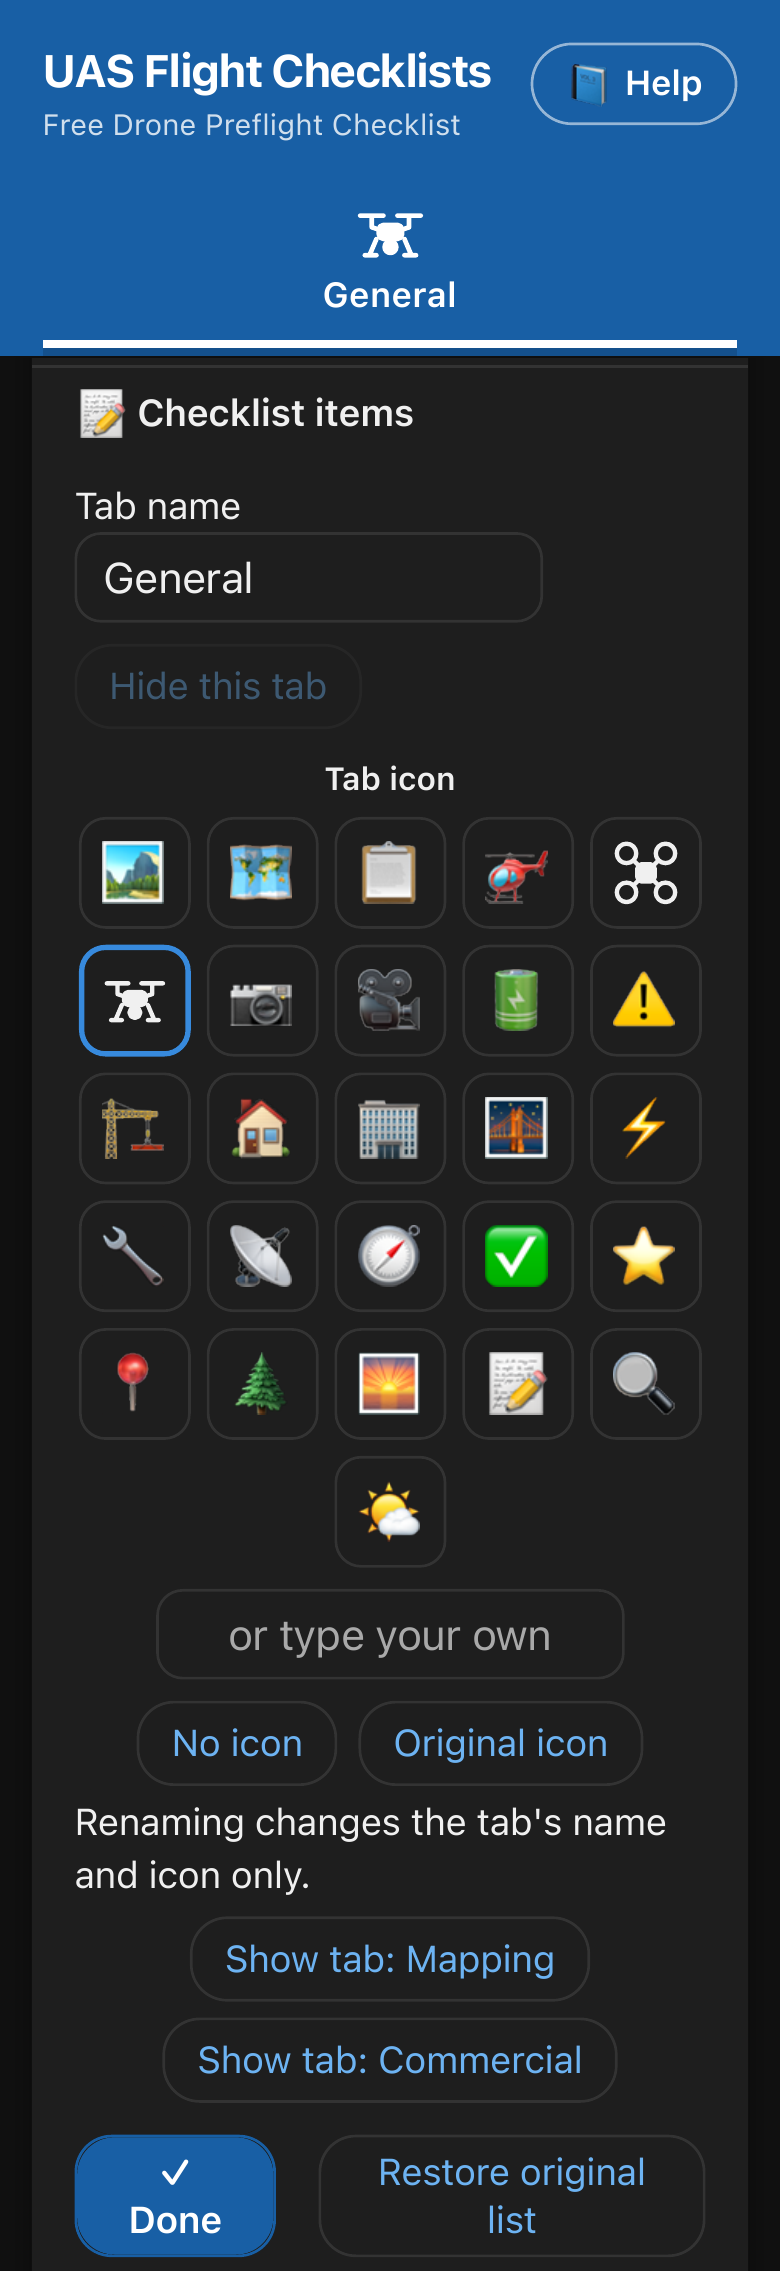
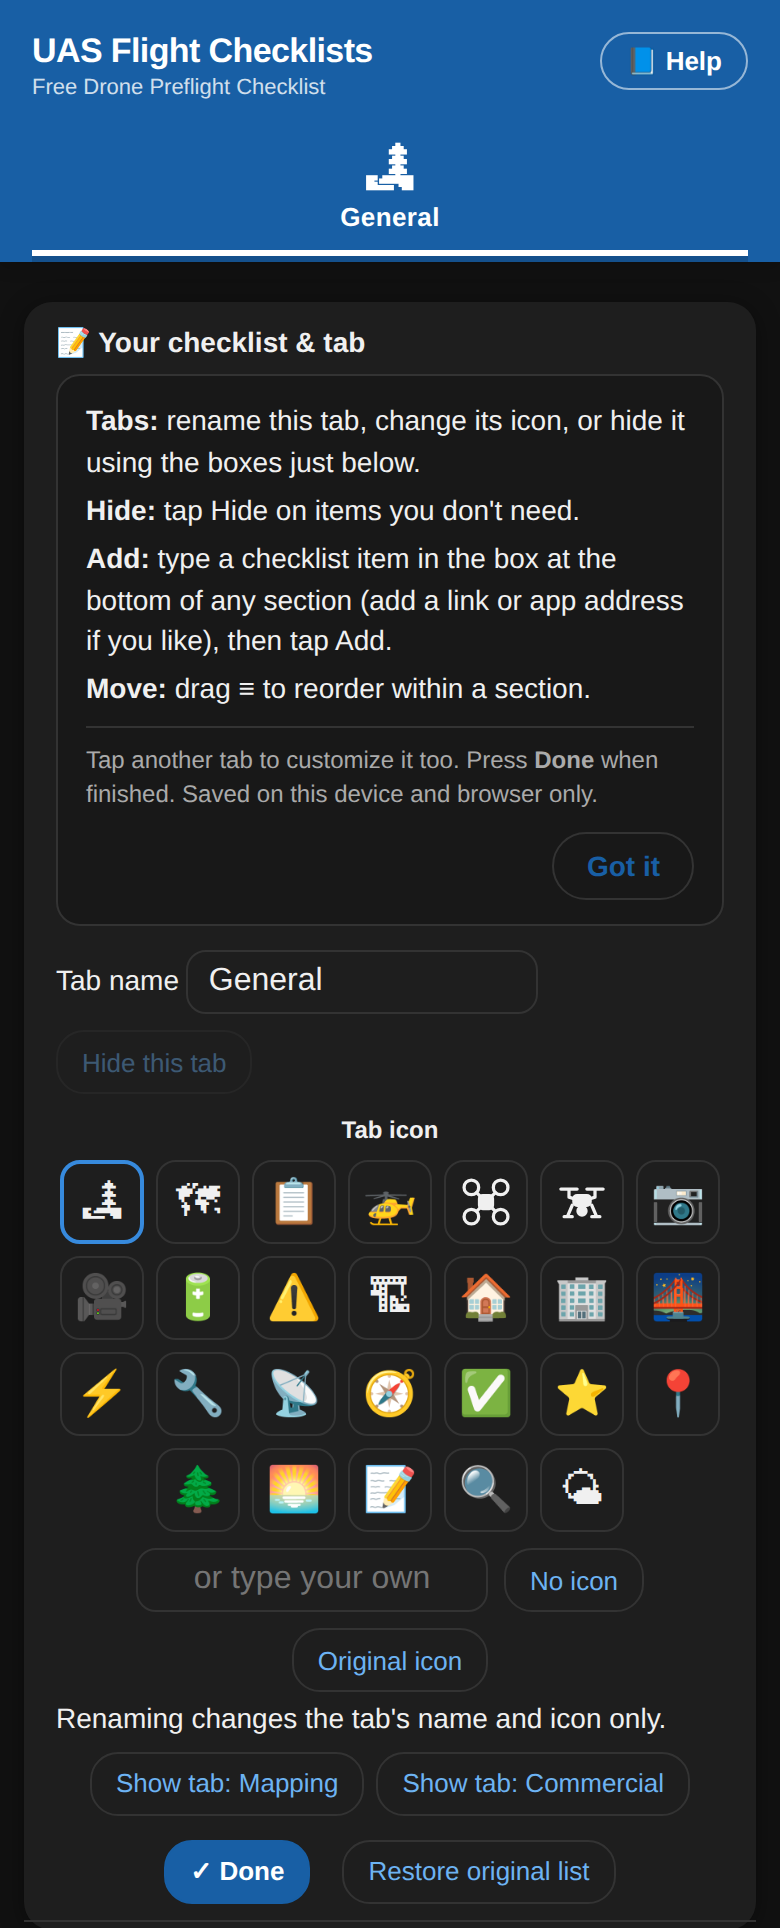
v3.8.7: clearer Customize (Your checklist & tab row, dismissible How to customize card with Tabs line, required item text, Done saves the add box), Customize button fits small screens; screenshots 02-04 refreshed
Claude-Session: https://claude.ai/code/session_01U4FEfDJ2HQGRGcGKUiG4Lg

diff --git a/index.html b/index.html
@@ -197,7 +197,13 @@
   .panel.editing .item.is-hidden .item-text { text-decoration: line-through; }
   .section.all-hidden { display: none; }
   .panel.editing .section.all-hidden { display: block; }
-  .add-row { display: none; gap: 8px; padding: 8px 4px 0; }
+  .add-row { display: none; gap: 8px; padding: 8px 4px 0; flex-wrap: wrap; }
+  .add-row input.add-url { flex: 1 1 100%; order: 3; font-size: 14px; }
+  .add-row input.bad, .add-row input.add-url.bad { border-color: var(--red, #c0392b); }
+  .item.has-link { flex-wrap: wrap; }
+  .item-link { flex: 0 0 calc(100% - 36px); box-sizing: border-box; margin: -6px 0 0 36px; font-size: 13px; font-weight: 600; color: var(--blue); text-decoration: none; word-break: break-all; -webkit-user-select: none; user-select: none; }
+  .item-link:active { opacity: .6; }
+  .item.na .item-link { opacity: .6; }
   .panel.editing .add-row { display: flex; }
   .add-row input { flex: 1; min-width: 0; font-family: inherit; font-size: 16px; color: var(--text); background: var(--card); border: 1px solid var(--border); border-radius: 10px; padding: 8px 10px; }
   .add-row button { font-family: inherit; font-size: 13px; color: #fff; background: var(--blue-mid); border: none; border-radius: 10px; padding: 8px 14px; cursor: pointer; }
@@ -319,8 +325,10 @@
   .body-set .keep-row, .body-set .region-row { flex-wrap: wrap; }
   .body-set .keep-row > span, .body-set .region-row > span { flex: 1 1 auto; }
   .body-set .keep-row select { font-size: 15px; flex: 1 1 52%; min-width: 0; }
-  .body-set .cust-row::before { content: '📝 Checklist items'; }
-  .body-set .cust-row .cust-btn { font-size: 14px; }
+  .body-set .cust-row { flex-wrap: wrap; row-gap: 8px; }
+  .body-set .cust-row::before { content: '📝 Your checklist & tab'; font-size: 14px; white-space: nowrap; flex: 1 1 auto; min-width: 0; }
+  .body-set .cust-row .cust-btn { font-size: 13px; padding: 6px 12px; white-space: nowrap; flex: 0 0 auto; }
+  .body-set .cust-row .cust-toggle { margin-left: auto; }
   .fn-block { padding: 8px 16px 10px; border-top: 1px solid var(--border); text-align: left; }
   .fn-row { display: flex; flex-wrap: wrap; align-items: center; gap: 8px; font-size: 14px; color: var(--text); }
   .fn-row > span { flex: 1 1 auto; }
@@ -373,9 +381,14 @@
   .cust-help { display: none; margin-top: 6px; line-height: 1.4; }
   .pc-btns { margin-bottom: 2px; }
   .panel.editing .progress-card, .panel.editing .flag-hint, .panel.editing .saved-note { display: none; }
-  .edit-note { display: none; margin: 0 0 12px; padding: 12px 14px; background: var(--card); border-radius: 14px; box-shadow: var(--shadow); font-size: 14px; line-height: 1.45; color: var(--text); }
+  .edit-note { display: none; margin: 2px 0 12px; padding: 12px 14px; background: var(--section-bg, var(--card)); border: 1px solid var(--border); border-radius: 12px; font-size: 14px; line-height: 1.45; color: var(--text); }
   .panel.editing .edit-note { display: block; }
   .edit-note .en-line { margin-bottom: 4px; }
+  .edit-note .en-got { display: block; margin: 10px 0 0 auto; font-family: inherit; font-size: 14px; font-weight: 600; color: var(--blue); background: transparent; border: 1px solid var(--border); border-radius: 18px; padding: 8px 16px; cursor: pointer; }
+  .edit-note .en-mini { display: none; width: 100%; text-align: left; font-family: inherit; font-size: 14px; color: var(--blue); background: transparent; border: 0; padding: 4px 0; cursor: pointer; }
+  .edit-note.collapsed { padding: 6px 14px; }
+  .edit-note.collapsed .en-full { display: none; }
+  .edit-note.collapsed .en-mini { display: block; }
   .edit-note .en-foot { margin-top: 8px; padding-top: 8px; border-top: 1px solid var(--border); font-size: 12px; color: var(--text-muted); }
   .panel.editing .cust-help { display: block; }
   .section-header { display: flex; align-items: center; gap: 8px; cursor: pointer; -webkit-user-select: none; user-select: none; }
@@ -510,7 +523,7 @@
     .tab-lbl { display: inline; }
     .tab.active { display: block; padding: 6px 0 0; font-size: 13pt; text-align: left; color: #000 !important; border: 0; }
     .progress-bar-wrap, #wx-panel, #region-card, .settings, .cust-row, .edit-note, .progress-card, .complete-banner, .flag-hint, .saved-note, .coffee-note, .foot-links,
-    .edit-bar, .toast, .item-menu, .rec-overlay, .rec-btn, .pc-btns, .pc-mini, .add-row, .item-x, .item-grip, .sec-meta, .sec-arrow, .xfer { display: none !important; }
+    .edit-bar, .toast, .item-menu, .item-link, .rec-overlay, .rec-btn, .pc-btns, .pc-mini, .add-row, .item-x, .item-grip, .sec-meta, .sec-arrow, .xfer { display: none !important; }
     .content { max-width: none; padding: 0; margin: 0; }
     .panel { padding: 0; }
     .print-fields { display: block; margin: 0 0 4px; }
@@ -541,7 +554,7 @@
   <div class="header-top">
     <div>
       <h1>UAS Flight Checklists</h1>
-      <p>Free Drone Preflight Checklist · v3.8.6</p>
+      <p>Free Drone Preflight Checklist · v3.8.7</p>
     </div>
     <div class="hdr-actions">
       <a class="hdr-help hdr-coffee" href="https://buymeacoffee.com/JohnstonAerial" target="_blank" rel="noopener" aria-label="Buy me a coffee (opens in a new tab)">☕ Buy me a coffee</a>
@@ -1523,12 +1536,42 @@ function gripUp() {
 }
 function gripCancel() { gripEnd(); }
 
-function makeItem(text) {
+// Optional link on your own items: a web address or an app address (for example dji://). Anything that could run code is refused.
+const LINK_BLOCK = /^(javascript|data|vbscript|file|blob|about|chrome|view-source|ms-|intent):/i;
+function cleanLink(raw) {
+  let v = String(raw || '').trim();
+  if (!v || v.length > 300 || /\s/.test(v)) return null;
+  if (LINK_BLOCK.test(v)) return null;
+  if (/^(mailto|tel|sms|facetime):/i.test(v)) return v;
+  if (/^[a-z][a-z0-9+.\-]*:\/\/\S*$/i.test(v)) return v;                     // https://..., dji://..., googlemaps://...
+  if (/^[^\/:@]+\.[^\/:@]{2,}(\/.*)?$/.test(v)) return 'https://' + v;       // airaware.aloft.ai  ->  https://airaware.aloft.ai
+  return null;
+}
+function linkLabel(u) {
+  let m = u.match(/^(https?):\/\/([^\/?#]+)/i);
+  if (m) return 'Open ' + m[2].replace(/^www\./i, '') + ' \u203A';
+  m = u.match(/^([a-z][a-z0-9+.\-]*):/i);
+  const sc = m ? m[1].toLowerCase() : '';
+  if (sc === 'tel') return 'Call \u203A';
+  if (sc === 'mailto') return 'Email \u203A';
+  if (sc === 'sms') return 'Text \u203A';
+  return 'Open ' + sc + ' app \u203A';
+}
+function makeItem(text, url) {
   const it = document.createElement('div');
   it.className = 'item custom';
   it.setAttribute('onclick', 'toggle(this)');
   it.innerHTML = document.querySelector('.item .check-circle').outerHTML + '<div class="item-text"></div>';
   it.querySelector('.item-text').textContent = text;
+  const lk = cleanLink(url);
+  if (lk) {
+    const a = document.createElement('a');
+    a.className = 'item-link'; a.href = lk; a.textContent = linkLabel(lk);
+    if (/^https?:/i.test(lk)) { a.target = '_blank'; a.rel = 'noopener noreferrer'; }
+    a.addEventListener('click', e => e.stopPropagation());
+    a.addEventListener('pointerdown', e => e.stopPropagation());
+    it.appendChild(a); it.classList.add('has-link');
+  }
   addItemButton(it);
   return it;
 }
@@ -1578,20 +1621,40 @@ function itemX(e, btn) {
   }
   custSave(); refreshCust(panelEl); saveProgress();
 }
-function addCustomItem(e, form) {
-  e.preventDefault();
-  const input = form.querySelector('input'), text = input.value.trim();
-  if (!text) return;
+function addCustomItem(e, form, quiet) {
+  if (e) e.preventDefault();
+  const input = form.querySelector('input'), urlIn = form.querySelector('.add-url');
+  const text = input.value.trim();
+  const rawUrl = urlIn ? urlIn.value.trim() : '', lk = rawUrl ? cleanLink(rawUrl) : '';
+  if (!text) { if (!quiet) { input.classList.add('bad'); input.setAttribute('placeholder', 'Enter the checklist item first'); input.focus(); } return false; }
+  if (rawUrl && !lk) { if (quiet) return false; urlIn.classList.add('bad'); urlIn.focus(); urlIn.setAttribute('placeholder', 'Not a valid link. Try https://... or app://...'); return false; }
   const secEl = form.closest('.section'), panelEl = form.closest('.panel');
-  custFor(panelEl.id).added.push({ sec: sectionTitleOf(secEl), text });
-  secEl.querySelector('.section-card').appendChild(makeItem(text));
-  input.value = '';
+  const rec = { sec: sectionTitleOf(secEl), text }; if (lk) rec.url = lk;
+  custFor(panelEl.id).added.push(rec);
+  secEl.querySelector('.section-card').appendChild(makeItem(text, lk));
+  input.value = ''; input.classList.remove('bad'); input.setAttribute('placeholder', ADD_PH);
+  if (urlIn) { urlIn.value = ''; urlIn.classList.remove('bad'); urlIn.setAttribute('placeholder', URL_PH); }
   custSave(); refreshCust(panelEl); saveProgress();
+  return true;
 }
+const ADD_PH = '* Checklist item, e.g. Check airspace', URL_PH = 'Link or app address (optional)';
+function flushAddRows(panelEl) {            // Done: save a complete add box, then clear any leftover draft
+  panelEl.querySelectorAll('.add-row').forEach(f => {
+    addCustomItem(null, f, true);
+    f.querySelectorAll('input').forEach(i => { i.value = ''; i.classList.remove('bad'); });
+    const a = f.querySelector('input'), u = f.querySelector('.add-url');
+    a.setAttribute('placeholder', ADD_PH); if (u) u.setAttribute('placeholder', URL_PH);
+  });
+}
+function editTipIsOff() { try { return localStorage.getItem('uasEditTipOff') === '1'; } catch (e) { return false; } }
+function editTipOff() { try { localStorage.setItem('uasEditTipOff', '1'); } catch (e) {} document.querySelectorAll('.edit-note').forEach(n => n.classList.add('collapsed')); }
+function editTipShow() { document.querySelectorAll('.edit-note').forEach(n => n.classList.remove('collapsed')); }
 function toggleEdit(btn) {
   const panelEl = btn.closest('.panel');
   const on = panelEl.classList.toggle('editing');
+  if (on) setTimeout(() => { const r = panelEl.querySelector('.cust-row'); if (r) window.scrollTo({ top: Math.max(0, r.getBoundingClientRect().top + window.scrollY - 76), behavior: 'smooth' }); }, 60);
   if (!on) {
+    flushAddRows(panelEl);
     const st = panelEl.querySelector('.settings');
     if (st) { st.classList.remove('open'); st.classList.remove('open-bak'); st.querySelectorAll('.settings-toggle').forEach(t => t.setAttribute('aria-expanded', 'false')); }
     window.scrollTo({ top: 0, behavior: 'smooth' });
@@ -1632,14 +1695,16 @@ document.querySelectorAll('.panel').forEach(panelEl => {
     const form = document.createElement('form');
     form.className = 'add-row';
     form.setAttribute('onsubmit', 'addCustomItem(event, this)');
-    form.innerHTML = '<input type="text" maxlength="140" placeholder="Add your own item" enterkeyhint="done" autocomplete="off"><button type="submit">Add</button>';
+    form.innerHTML = '<input type="text" maxlength="140" placeholder="* Checklist item, e.g. Check airspace" enterkeyhint="done" autocomplete="off"><button type="submit">Add</button><input type="text" class="add-url" maxlength="300" inputmode="url" placeholder="Link or app address (optional)" autocomplete="off" autocapitalize="off" autocorrect="off" spellcheck="false">';
+    form.querySelector('.add-url').addEventListener('input', e => e.target.classList.remove('bad'));
+    form.querySelector('input').addEventListener('input', e => e.target.classList.remove('bad'));
     sec.appendChild(form);
   });
   if (c) {
     const secs = [...panelEl.querySelectorAll('.section')];
     (c.added || []).forEach(a => {
       const sec = secs.find(s => sectionTitleOf(s) === a.sec) || secs[secs.length - 1];
-      if (sec) sec.querySelector('.section-card').appendChild(makeItem(a.text));
+      if (sec) sec.querySelector('.section-card').appendChild(makeItem(a.text, a.url));
     });
     const keys = baseKeyMap(panelEl);
     keys.forEach((k, it) => { if ((c.hidden || []).includes(k)) it.classList.add('is-hidden'); });
@@ -1647,7 +1712,7 @@ document.querySelectorAll('.panel').forEach(panelEl => {
   }
   const row = document.createElement('div');
   row.className = 'cust-row';
-  row.innerHTML = '<button type="button" class="cust-btn cust-toggle" onclick="toggleEdit(this)">✎ Customize</button>' +
+  row.innerHTML = '<button type="button" class="cust-btn cust-toggle" onclick="toggleEdit(this)">Customize</button>' +
     '<div class="cust-help">' +
     '<div class="tab-edit"><label>Tab name <input class="tab-name" type="text" maxlength="24" autocomplete="off" oninput="saveTabName(this)" onblur="refreshTabs()"></label>' +
     '<button type="button" class="cust-btn tab-hide-btn" onclick="hideTab(this)">Hide this tab</button></div>' +
@@ -1892,7 +1957,7 @@ refreshTabs();
 
 // ── Move to another device: copy a code or save a file with your settings (and, optionally, your progress) ──
 const XFER_PROGRESS = 'uasChecklistProgress';
-const XFER_KEYS = ['uasRegion', 'wxUnits', 'uasProgressHours', 'uasTabs', 'uasCustomItems', 'uasCollapsedSections', 'wxSite', 'wxRecent', 'uasWindLimits', 'uasKpLimits', 'uasFileName', 'uasPilot', 'uasDrone', 'uasRegNo', 'uasPdfLayout', 'uasPdfPaper', 'uasPrintTipOff', XFER_PROGRESS];
+const XFER_KEYS = ['uasRegion', 'wxUnits', 'uasProgressHours', 'uasTabs', 'uasCustomItems', 'uasCollapsedSections', 'wxSite', 'wxRecent', 'uasWindLimits', 'uasKpLimits', 'uasFileName', 'uasPilot', 'uasDrone', 'uasRegNo', 'uasPdfLayout', 'uasPdfPaper', 'uasPrintTipOff', 'uasEditTipOff', XFER_PROGRESS];
 // Share… shows where the browser can share but Save file does not already open a share sheet
 // (desktop browsers: Chrome/Edge have a folder dialog; Safari on a Mac may claim file sharing but not deliver it; touch devices already share from Save file)
 const XFER_HAS_SHARE = (() => {
@@ -2170,13 +2235,17 @@ document.querySelectorAll('.panel').forEach(panelEl => {
   sn.innerHTML = '💾 Saved on this device and browser only · clears after <span class="saved-hours"></span>';
   tip.after(sn);
   const en = document.createElement('div'); en.className = 'edit-note';
-  en.innerHTML = '<div class="en-line"><b>Hide:</b> tap Hide on items you don\'t need.</div>' +
-    '<div class="en-line"><b>Add:</b> use "Add your own item" at the bottom of any section.</div>' +
+  en.innerHTML = '<button type="button" class="en-mini" onclick="editTipShow()">ⓘ How to customize ›</button><div class="en-full">' +
+    '<div class="en-line"><b>Tabs:</b> rename this tab, change its icon, or hide it using the boxes just below.</div>' +
+    '<div class="en-line"><b>Hide:</b> tap Hide on items you don\'t need.</div>' +
+    '<div class="en-line"><b>Add:</b> type a checklist item in the box at the bottom of any section (add a link or app address if you like), then tap Add.</div>' +
     '<div class="en-line"><b>Move:</b> drag <b>≡</b> to reorder within a section.</div>' +
-    '<div class="en-foot">Tap another tab to customize it too. Press <b>Done</b> when finished. Saved on this device and browser only.</div>';
-  sn.after(en);
+    '<div class="en-foot">Tap another tab to customize it too. Press <b>Done</b> when finished. Saved on this device and browser only.</div>' +
+    '<button type="button" class="en-got" onclick="editTipOff()">Got it</button></div>';
+  if (editTipIsOff()) en.classList.add('collapsed');
+  const ch = cust.querySelector('.cust-help'); if (ch) ch.prepend(en); else sn.after(en);
   const bar = document.createElement('div'); bar.className = 'edit-bar';
-  bar.innerHTML = '<span>✎ Editing your list</span><button type="button" class="cust-btn primary" onclick="toggleEdit(this)">✓ Done</button>';
+  bar.innerHTML = '<span>✎ Editing this checklist and tab</span><button type="button" class="cust-btn primary" onclick="toggleEdit(this)">✓ Done</button>';
   panelEl.prepend(bar);
   const coffee = document.createElement('div'); coffee.className = 'coffee-note';
   coffee.innerHTML = 'Built by a Part 107 pilot, for pilots. Free to use. If it helped you fly smarter, <a href="https://buymeacoffee.com/JohnstonAerial" target="_blank" rel="noopener">buy me a coffee ☕</a>';

diff --git a/sw.js b/sw.js
@@ -2,7 +2,7 @@
 // Network first: when you're online you always get the newest version.
 // When there's no signal, the last copy that loaded is used instead.
 // Only this site's own files are handled. Weather, radar and search always go to the network.
-const CACHE = 'uas-checklist-v3.8.6';
+const CACHE = 'uas-checklist-v3.8.7';
 const SHELL = ['./', 'index.html', 'manifest.json', 'icon-192.png', 'icon-512.png', 'icon-maskable-512.png', 'apple-touch-icon.png'];
 
 self.addEventListener('install', (e) => {

diff --git a/README.md b/README.md
@@ -95,6 +95,15 @@ Items you flagged are listed as **NEEDS ATTENTION**, items you hid are left out,
 
 ---
 
+## What's new in v3.8.7
+
+- **Customize is easier to find and follow** — in **⚙ Settings**, the row now reads **📝 Your checklist & tab** with a **Customize** button, so it's clear that Customize covers the tab itself (its name, icon and Hide) as well as the items on it. While you customize, the bar at the bottom says **Editing this checklist and tab**, and the page scrolls to the controls for you.
+- **A "How to customize" card at the top** — the instructions (**Tabs**, **Hide**, **Add**, **Move**) now sit at the top of that block, above the **Tab name** box, instead of further down the page. Tap **Got it** and the card shrinks to a one-line **ⓘ How to customize ›** that you can tap to bring it back. **Back up & restore** remembers that you tapped **Got it**.
+- **Adding your own item is clearer** — the box now reads **\* Checklist item, e.g. Check airspace**. If you tap **Add** with nothing typed, the box turns red and asks for the checklist item. Tapping **Done** saves a filled-in box, and clears one that is only half filled in, so nothing is left behind.
+- **Fix: the Customize button fits on small or zoomed phone screens** — it is no longer cut off at the right edge.
+
+---
+
 ## What's new in v3.8.6
 
 - **More of what airports report, worldwide** — the weather card now reads the full standard set of airport weather codes. A **funnel cloud** or **tornado/waterspout** report turns the Precipitation card red with the airport and distance; **squalls** show in amber. **Sandstorms and duststorms** show on the Humidity card, and blowing or drifting dust, sand and snow, dust whirls and spray are named in words. **Freezing rain and drizzle** keep the word "freezing", showers and thunderstorms with rain or hail read clearly, and several conditions at once (for example "rain and snow") are all shown. Anything near the airport but not at it says "in the vicinity". Unknown codes are skipped.
@@ -435,7 +444,7 @@ Version 3 is a major update built around making the checklist *yours*:
 - **One-tap buttons** for TFRs, NOTAMs, and NWS Radar (see [How-to guides](HOW-TO.md#check-tfrs-and-notams-before-you-fly-usa) for how to read them)
 - **Progress tracker** — percentage complete per tab, with a **ready to fly** banner when your pre-flight sections are done and a **flight complete** banner when everything is
 - **Works outside the USA** — the first time you open it, choose **USA** or **Outside USA**. Choosing outside the USA hides the items marked "(US)" (TFR and LAANC checks and the TFR recheck on site), rewords the NOTAM item so it isn't tied to a US website, removes the FAA/NWS buttons under the weather panel, and switches the weather to metric. Change it any time in **⚙ Settings**
-- **Customize the list** — open **⚙ Settings** and tap **✎ Customize** to hide items that don't apply where you fly, add your own items to any section, and drag items into the order you prefer. Hidden items don't count toward progress, and checks follow an item when you move it. **Restore original list** puts the tab back to the defaults
+- **Customize the list** — open **⚙ Settings** and tap **Customize** (in the **Your checklist & tab** row) to hide items that don't apply where you fly, add your own items to any section, and drag items into the order you prefer. Hidden items don't count toward progress, and checks follow an item when you move it. **Restore original list** puts the tab back to the defaults
 - **Rename, re-icon or hide tabs** — in Customize mode, rename the tab you're on, give it a different icon (pick one, type your own emoji, or choose none) or hide it (at least one tab always stays), and bring hidden tabs back from any tab. Renaming and changing the icon change only how the tab looks; use Hide and Add to change what's inside it
 - **Back up & restore** — see below
 - **Collapsible sections** — tap a section header to fold it up or open it, or use **Collapse all / Expand all**. Finished sections fold themselves and the next unfinished one opens, and on your first visit only the first section of each tab is open. Each header shows its count (like 9/12), a ✓ when it's finished and an amber ⚠ if something in it needs attention, even when folded. Your fold state is remembered
@@ -504,7 +513,7 @@ Or simply download `index.html` and open it locally in any browser. The weather 
 8. Tap **Reset** (bottom of the progress card) to clear all checks, flags and N/A marks on the current tab — it asks you to confirm first
 9. Tap **Save flight record** to keep a PDF or text copy of the flight, **PDF** to save the checklist as a printable file, or **Print** to print the tab (in Safari or a computer browser)
 
-**To make it yours:** open **⚙ Settings**, tap **✎ Customize**, and hide items you don't need, add your own, drag items into your order, and rename, change the icon of, or hide whole tabs — then press **Done** in the bar at the bottom. Before you leave Settings, consider saving a backup. More in the [How-to guides](HOW-TO.md).
+**To make it yours:** open **⚙ Settings**, tap **Customize**, and hide items you don't need, add your own, drag items into your order, and rename, change the icon of, or hide whole tabs — then press **Done** in the bar at the bottom. Before you leave Settings, consider saving a backup. More in the [How-to guides](HOW-TO.md).
 
 ---
 

diff --git a/HOW-TO.md b/HOW-TO.md
@@ -60,7 +60,7 @@ The app keeps one setup at a time on your device: your tab names and icons, whic
 
 **Example: a "Timelapse" setup**
 
-1. Tap **⚙ Settings**, then **✎ Customize**.
+1. Tap **⚙ Settings**, then **Customize** in the **Your checklist & tab** row.
 2. Rename a tab (for example, **Timelapse**) in the **Tab name** box. You can also change its icon under **Tab icon**: pick one, type your own emoji, or choose **No icon**.
 3. Tap **Hide** on items you don't need, and add your own at the bottom of any section. Use **Hide this tab** on tabs you don't want to see. Tap **✓ Done**.
 4. In **💾 Back up & restore**, untick **Include current progress**, then tap **Save file**.
